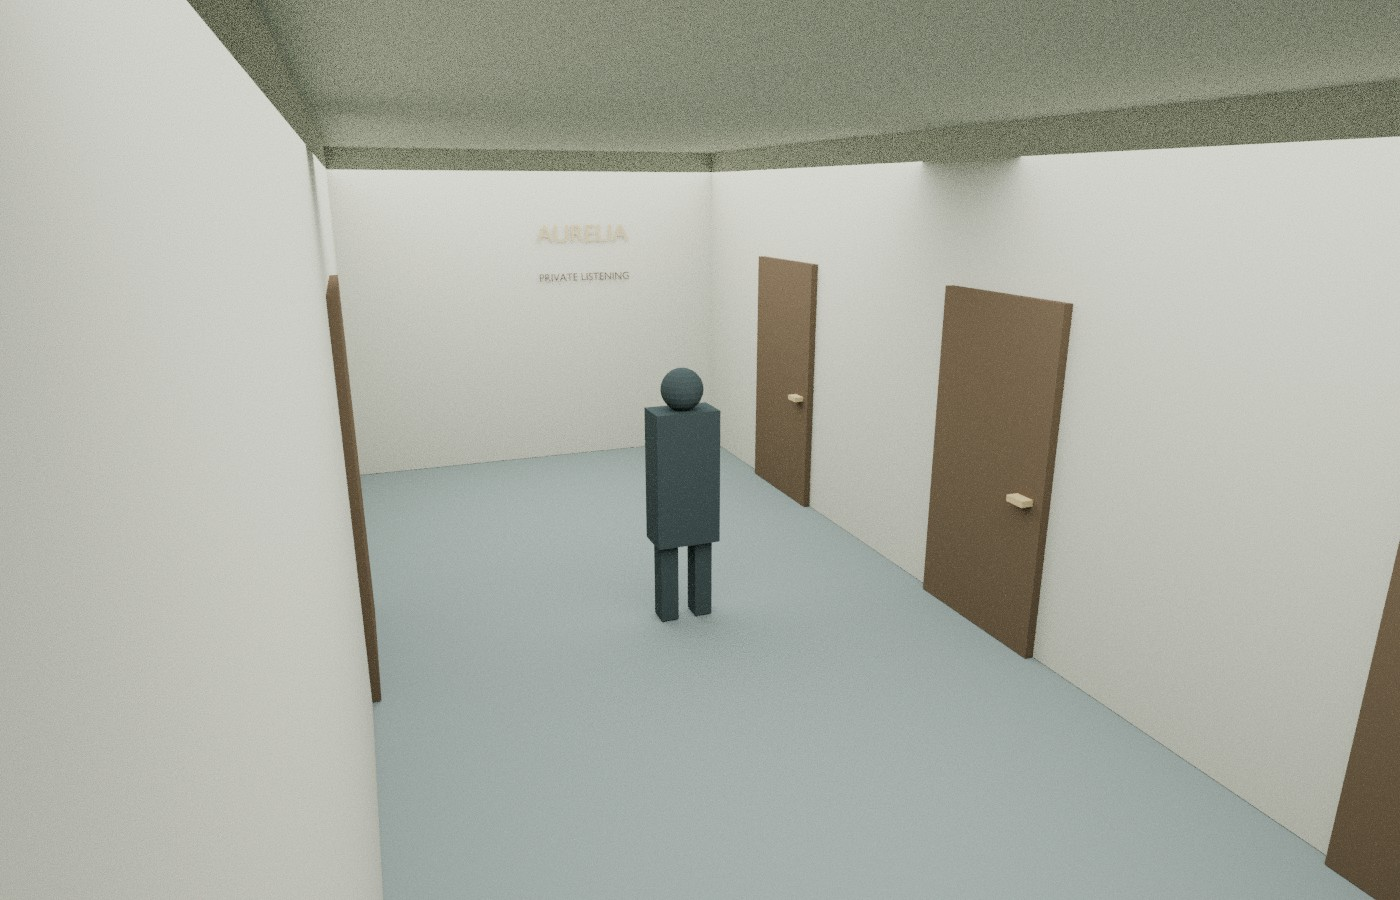
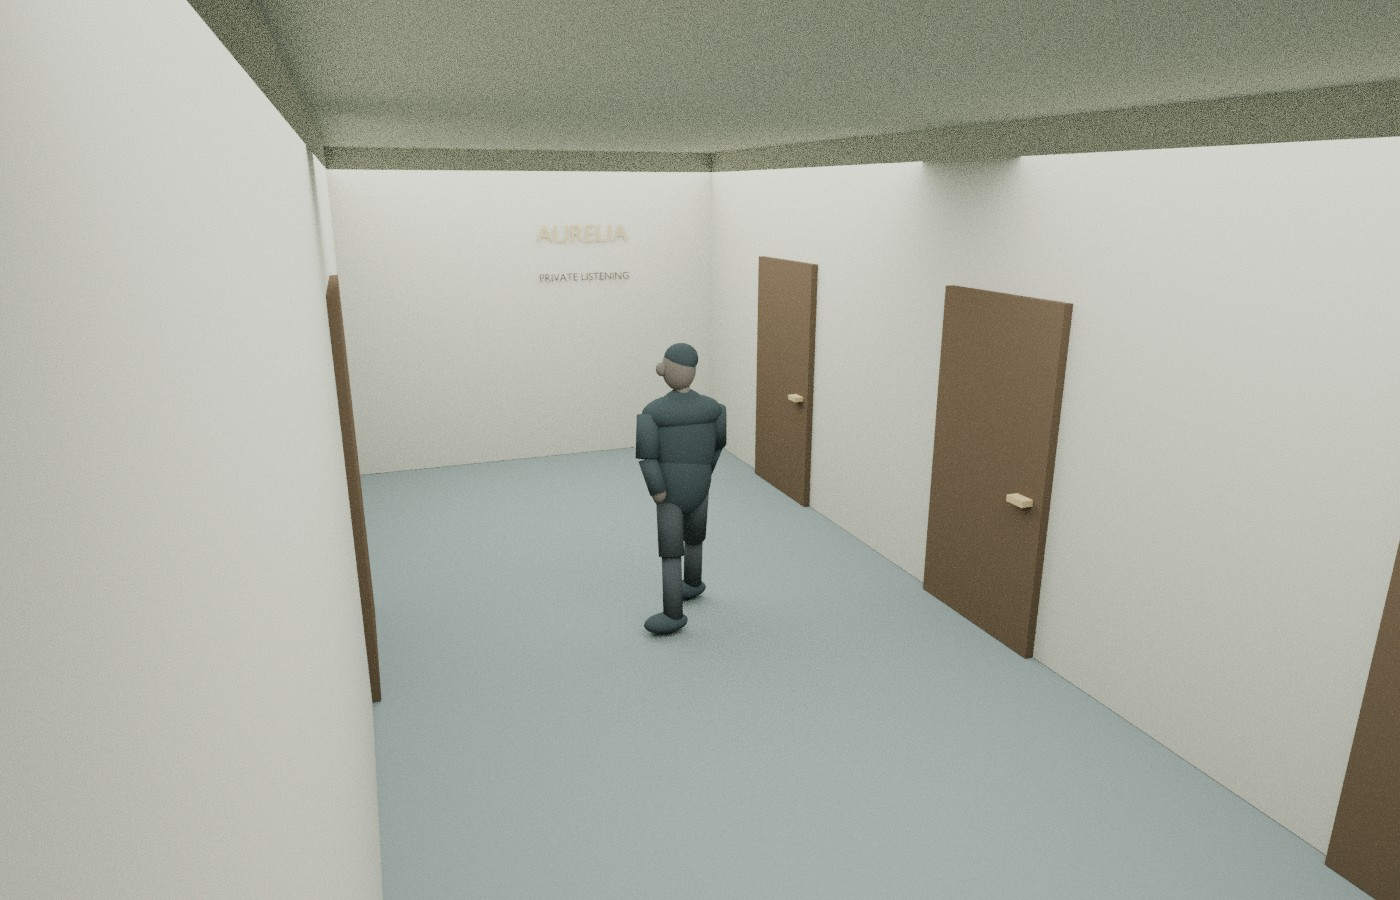
Correct surveillance artwork and remove answer-revealing chronology and plan presentation

Changed region(s): [[0.43, 0.3733, 0.5221, 0.7156]]

diff --git a/casework/src/diagrams.js b/casework/src/diagrams.js
@@ -15,7 +15,7 @@ export function traceSheet() {
   return `<figure class="examination-diagram"><svg viewBox="0 0 720 370" role="img" aria-label="Equal-scale partial angled sole trace and three reference soles. Reference C shares angled bars and worn outer heel."><rect width="720" height="370" fill="#eae0c5"/><g fill="#263d2f" stroke="#263d2f" stroke-width="6" font-family="monospace" font-size="13">${sole(20, 55, "trace", "RECOVERED")}${sole(195, 55, "A", "A")}${sole(370, 55, "B", "B")}${sole(545, 55, "C", "C")}</g><path d="M30 320h120m-120-6v12m120-12v12" stroke="#263d2f"/><text x="30" y="347" font-size="12" fill="#263d2f">Shared examination scale / diagram, not a wearer identification</text></svg><figcaption>Compare the pattern and missing corner. The paired wheel track is recorded separately in the original receiving sheet.</figcaption></figure>`;
 }
 export function circulation(completed = false) {
-  return `<figure class="examination-diagram"><svg viewBox="0 0 760 530" role="img" aria-label="${completed ? "Completed service connection joins the landing behind camera E1." : "Older plan shows the side service connection closed."}"><rect width="760" height="530" fill="#e8dfc7"/><defs><pattern id="grid" width="20" height="20" patternUnits="userSpaceOnUse"><path d="M20 0H0V20" fill="none" stroke="#a4b8a266" stroke-width=".6"/></pattern></defs><rect width="760" height="530" fill="url(#grid)"/><g fill="none" stroke="#344d3c" stroke-width="7"><path d="M200 440V90H440V240H650V340H440V440Z"/><path d="M200 240H40V340H200M300 440v65M200 90V25H440V90"/></g><path d="M202 244v92" stroke="${completed ? "#e8dfc7" : "#944e3c"}" stroke-width="11"/>${completed ? '<path d="M80 290H260V400" fill="none" stroke="#976d36" stroke-width="3" stroke-dasharray="8 7"/>' : '<path d="M180 250l40 75m0-75-40 75" stroke="#944e3c" stroke-width="3"/>'}<path d="M340 170L220 90H440Z" fill="#728a7844" stroke="#728a78"/><g font-family="monospace" font-size="16" fill="#263d2f"><text x="277" y="67">FRONT</text><text x="260" y="350">LANDING</text><text x="55" y="275">SERVICE</text><text x="485" y="295">STAIR</text><text x="235" y="475">APARTMENT</text><text x="352" y="170">E1 ↑</text></g><text x="30" y="510" fill="#425e48" font-size="13">8 TEILOR STREET / ${completed ? "COMPLETED SERVICE WORKS / B" : "RETAINED DESK COPY / A"} / NORTH ↑</text></svg><figcaption>Same drawing scale and camera position. Compare openings, not the apparent extent of the camera image.</figcaption></figure>`;
+  return `<figure class="examination-diagram"><svg viewBox="0 0 760 530" role="img" aria-label="${completed ? "Completed service connection joins the landing behind camera E1." : "Older plan shows the side service connection closed."}"><rect width="760" height="530" fill="#e8dfc7"/><defs><pattern id="grid" width="20" height="20" patternUnits="userSpaceOnUse"><path d="M20 0H0V20" fill="none" stroke="#a4b8a266" stroke-width=".6"/></pattern></defs><rect width="760" height="530" fill="url(#grid)"/><g fill="none" stroke="#344d3c" stroke-width="7"><path d="M200 440V90H440V240H650V340H440V440Z"/><path d="M200 240H40V340H200M300 440v65M200 90V25H440V90"/></g><path d="M438 244v92" stroke="${completed ? "#e8dfc7" : "#944e3c"}" stroke-width="11"/>${completed ? "" : '<path d="M418 250l40 75m0-75-40 75" stroke="#944e3c" stroke-width="3"/>'}<path d="M320 170L265 90H375Z" fill="#728a7844" stroke="#728a78"/><g font-family="monospace" font-size="16" fill="#263d2f"><text x="277" y="67">FRONT</text><text x="260" y="350">LANDING</text><text x="55" y="275">STAIR</text><text x="475" y="295">SERVICE</text><text x="235" y="475">APARTMENT</text><text x="332" y="170">E1 ↑</text></g><text x="30" y="510" fill="#425e48" font-size="13">8 TEILOR STREET / ${completed ? "COMPLETED SERVICE WORKS / B" : "RETAINED DESK COPY / A"} / NORTH ↑</text></svg><figcaption>Same drawing scale and camera position. Compare openings, not the apparent extent of the camera image.</figcaption></figure>`;
 }
 export function catalogue() {
   return `<div class="catalogue-drawer"><div class="catalogue-tabs"><span>A</span><span>B</span><span>C</span><span>D</span></div><p>RADIO WORKSHOP / ORIGINAL INDEX</p><table><thead><tr><th>Reel word</th><th>Shelf</th><th>Drawer</th><th>Sequence</th></tr></thead><tbody><tr><td>LANTERN</td><td>B</td><td>1</td><td>4</td></tr><tr><td>MEADOW</td><td>A</td><td>4</td><td>1</td></tr><tr><td>ORCHID</td><td>D</td><td>3</td><td>2</td></tr></tbody></table><p>The last wheel counts long pulses in the slate. Shelf letters: A=1, B=2, C=3, D=4.</p></div>`;

diff --git a/casework/src/content.js b/casework/src/content.js
@@ -482,7 +482,7 @@ export const CONTENT = {
       kind: "plan",
       title: "Completed circulation drawing B",
       chapter: 6,
-      text: "8 TEILOR STREET / completed service works\nThe side service connection joins the apartment-facing landing behind E1. The camera still faces the front entrance. Its position did not move under the work order.\nAn available route does not establish that a particular person used it.",
+      text: "8 TEILOR STREET / completed service works\nWork order S-2: the east service opening is reinstated with a new lintel. Stair enclosure unchanged. Camera E1 fixture retained at its earlier mounting point.\nThe completion drawing and older desk copy share a scale. Compare the actual openings and the camera sector before drawing a route. A drawing is not a record of who travelled through it.",
       meta: "Retained original / English",
       image: null,
       choices: {
@@ -2668,10 +2668,10 @@ export const CONTENT = {
         "Use the calendar and independent receipt to reconstruct the night’s documented movement.",
       sources: ["trip", "hotel-receipt"],
       items: {
-        pickup: "Pickup at Atelier Nord",
-        arrival: "Arrival at Hotel Aurelia",
         appointment: "Listening-room appointment begins",
         return: "Arrival at 8 Teilor Street",
+        pickup: "Pickup at Atelier Nord",
+        arrival: "Arrival at Hotel Aurelia",
       },
       answer: ["pickup", "arrival", "appointment", "return"],
       hint: "Pickup and arrival are different fields. The receiving appointment has its own independently retained time.",

diff --git a/tools/rebuild/render_world.py b/tools/rebuild/render_world.py
@@ -34,13 +34,29 @@ for z in [.18,.8]:
  for loc,dim in [((-.0,3.39,z),(7,.045,.08)),((3.39,.25,z),(.045,6.5,.08))]:cube('wall moulding',loc,dim,wood,.01)
 cube('ceiling',(0,.25,3.16),(7,6.5,.12),cream)
 # Hall behind the opening; same doorway in every view.
-cube('hall floor',(-2.25,5.1,-.05),(1.5,3.2,.1),floor);cube('hall side',(-3.08,5.1,1.5),(.1,3.2,3),wall);
+cube('hall floor',(-2.25,5.1,-.05),(1.5,3.2,.1),floor)
+for ya,yb in [(3.5,3.6),(4.35,6.7)]:cube('hall west side',(-3.08,(ya+yb)/2,1.5),(.1,yb-ya,3),wall)
+cube('stair connection floor',(-4.48,3.95,-.05),(2.8,.75,.1),floor)
+for i in range(6):cube('stair tread',(-4.1-i*.26,3.95,.08+i*.08),(.26,.75,.16+i*.16),wood)
+
 for ya,yb in [(3.5,3.6),(4.35,6.7)]:cube('hall side',(-1.42,(ya+yb)/2,1.5),(.1,yb-ya,3),wall)
 cube('service corridor floor',(-.25,3.95,-.05),(2.4,.75,.1),floor);cube('service corridor back',(-.25,4.38,1.5),(2.4,.1,3),wall)
 for x in [-2.86,-1.64]:cube('door casing',(x,3.40,1.2),(.10,.16,2.4),wood,.02)
 cube('door casing',(-2.25,3.4,2.42),(1.3,.16,.12),wood,.02)
 door=cube('service door',(-2.75,3.85,1.18),(.09,1.12,2.35),wood,.025);door.rotation_euler.z=-.18
 cyl('brass latch',(-2.76,3.38,1.02),.045,.07,brass).rotation_euler.x=math.pi/2
+# The apartment-facing opening is south of E1; this view sees only the north entrance.
+for xa,xb in [(-3.08,-2.83),(-1.67,-1.42)]:cube('front entrance wall',((xa+xb)/2,6.75,1.5),(xb-xa,.12,3),wall)
+cube('front entrance lintel',(-2.25,6.75,2.7),(1.16,.12,.6),wall)
+cube('front entrance door',(-2.25,6.70,1.15),(1.12,.075,2.3),wood,.02)
+for x in [-2.84,-1.66]:cube('front door frame',(x,6.61,1.18),(.07,.12,2.38),cream,.01)
+cube('front door frame',(-2.25,6.61,2.38),(1.25,.12,.08),cream,.01)
+cube('push plate',(-1.82,6.60,1.05),(.08,.025,.28),brass,.008)
+cube('door lower panel',(-2.25,6.645,.55),(.84,.022,.70),dark,.02)
+cube('door upper panel',(-2.25,6.645,1.55),(.84,.022,.70),dark,.02)
+cube('hall ceiling',(-2.25,5.1,3.06),(1.72,3.35,.12),cream)
+text('FRONT ENTRY',(-2.25,6.59,2.60),.10,cream,(math.pi/2,0,0))
+
 # Shelf and recognizable heavy bookend.
 for x in [.25,2.95]:cube('shelf upright',(x,3.24,1.35),(.08,.38,2.6),wood,.015)
 for z in [.15,.85,1.55,2.25,2.6]:cube('shelf',(1.6,3.24,z),(2.8,.42,.065),wood,.012)
@@ -87,6 +103,7 @@ stain=cyl('small floor trace',(-.25,-.65,.035),.045,.002,red);markers.append(sta
 def area(name,loc,power,color,size,target):
  bpy.ops.object.light_add(type='AREA',location=loc);o=bpy.context.object;o.name=name;o.data.energy=power;o.data.color=color;o.data.shape='DISK';o.data.size=size;o.rotation_euler=(Vector(target)-o.location).to_track_quat('-Z','Y').to_euler();return o
 windowlight=area('window daylight',(-3.1,1.1,2.4),520,(.62,.73,1),2.4,(0,0,.5));practical=area('practical lamp',(-2.7,2.35,1.55),115,(1,.62,.29),.45,(-1,1,0));fill=area('room bounce',(1,-2.4,2.7),120,(1,.84,.62),3,(0,1,.5))
+area('hall practical',(-2.25,5.7,2.84),210,(1,.83,.57),1.0,(-2.25,6.6,.8))
 bpy.ops.object.camera_add();camera=bpy.context.object;scene.camera=camera;camera.data.lens=28;camera.data.clip_end=100
 views={
  'scene-wide':((2.75,-4.9,2.05),(-.25,.7,1.0),26,'scene'),

diff --git a/tools/rebuild/render_locations.py b/tools/rebuild/render_locations.py
@@ -24,8 +24,29 @@ label('AURELIA',(0,7.91,2.3),.25,metal);label('PRIVATE LISTENING',(0,7.9,1.9),.1
 light((0,1,3),320,(0,1,0));light((0,6,3),350,(0,6,0))
 render(s,'hotel-0',(-1.8,-1.5,2.8),(.3,4,1.1),23)
 figure=[]
-figure.append(box('coat silhouette',(.1,3.8,1),(.43,.26,.9),human));bpy.ops.mesh.primitive_uv_sphere_add(segments=20,ring_count=12,radius=.14,location=(.1,3.8,1.58));bpy.context.object.data.materials.append(human);figure.append(bpy.context.object)
-for x in [-.02,.22]:figure.append(box('leg',(x,3.8,.33),(.12,.15,.65),human))
+# Anonymous moving figure, with a continuous coat silhouette and articulated gait.
+# No face is used for identification; the camera cannot support that claim.
+def ellipsoid(name,pos,scale,material):
+ bpy.ops.mesh.primitive_uv_sphere_add(segments=32,ring_count=20,radius=1,location=pos);o=bpy.context.object;o.name=name;o.scale=scale;o.data.materials.append(material)
+ for poly in o.data.polygons:poly.use_smooth=True
+ figure.append(o);return o
+def limb(name,a,b,r,material):
+ d=Vector(b)-Vector(a);bpy.ops.mesh.primitive_cylinder_add(vertices=24,radius=r,depth=d.length,location=(Vector(a)+Vector(b))/2);o=bpy.context.object;o.name=name;o.rotation_euler=d.to_track_quat('Z','Y').to_euler();o.data.materials.append(material)
+ for poly in o.data.polygons:poly.use_smooth=True
+ figure.append(o);return o
+skin=mat('unidentified person in shadow',(.13,.115,.095));pants=mat('dark trousers',(.045,.055,.055))
+ellipsoid('coat upper body',(.1,3.8,1.25),(.23,.15,.34),human)
+ellipsoid('coat lower body',(.08,3.8,1.00),(.22,.155,.27),human)
+ellipsoid('shoulder line',(.1,3.8,1.43),(.27,.155,.12),human)
+limb('neck',(.1,3.8,1.49),(.1,3.8,1.60),.052,skin)
+ellipsoid('head profile',(.08,3.8,1.72),(.112,.10,.145),skin)
+ellipsoid('hair silhouette',(.095,3.8,1.78),(.112,.103,.10),human)
+ellipsoid('nose in profile',(-.035,3.8,1.72),(.04,.035,.045),skin)
+for sign in [-1,1]:
+ shoulder=(.1+sign*.23,3.8,1.43);elbow=(.1+sign*.27,3.8+sign*.09,1.17);wrist=(.1+sign*.22,3.8+sign*.17,.96)
+ limb('coat sleeve',shoulder,elbow,.075,human);limb('coat forearm',elbow,wrist,.06,human);ellipsoid('hand',wrist,(.047,.045,.065),skin)
+ hip=(.1+sign*.10,3.8,.92);knee=(.1+sign*.13,3.8+sign*.14,.50);ankle=(.1+sign*.15,3.8+sign*.22,.10)
+ limb('trouser thigh',hip,knee,.085,pants);limb('trouser shin',knee,ankle,.065,pants);ellipsoid('shoe',(.1+sign*.15-.05,3.8+sign*.22,.07),(.15,.085,.065),human)
 render(s,'hotel-4',(-1.8,-1.5,2.8),(.3,4,1.1),23)
 for o in figure:o.hide_render=True
 render(s,'hotel-8',(-1.8,-1.5,2.8),(.3,4,1.1),23)

diff --git a/tools/rebuild/render_hall.py b/tools/rebuild/render_hall.py
@@ -1,0 +1,5 @@
+"""Render the completed north entrance from the shared, authoritative room model."""
+from pathlib import Path
+source=Path(__file__).with_name('render_world.py');exec(compile(source.read_text().split('regions={};points=')[0],str(source),'exec'))
+name='hall-camera';pos,target,lens,version=views[name];camera.location=pos;camera.rotation_euler=(Vector(target)-camera.location).to_track_quat('-Z','Y').to_euler();camera.data.lens=lens;scene.cycles.samples=48
+scene.render.filepath=str(out/(name+'.jpg'));bpy.ops.render.render(write_still=True)

diff --git a/docs/rebuild/VALIDATION.md b/docs/rebuild/VALIDATION.md
@@ -25,7 +25,7 @@ A working casebook supports notes, personal theories, supporting/contradicting/c
 
 ## Manual inspection
 
-The chronology, physical location/camera relationship, source-release chain, independent records, clue prerequisites and distinction between contact, time and attribution received a manual consistency pass. This is author-side inspection and does not establish independent player fairness.
+The chronology, physical location/camera relationship, source-release chain, independent records, clue prerequisites and distinction between contact, time and attribution received a manual consistency pass. The final pass corrected an incomplete surveillance view, reconciled the circulation drawing with the rendered camera direction, removed a suggested route from an original plan and stopped event cards appearing in already-solved order. This is author-side inspection and does not establish independent player fairness.
 
 ## Still unverified
 
